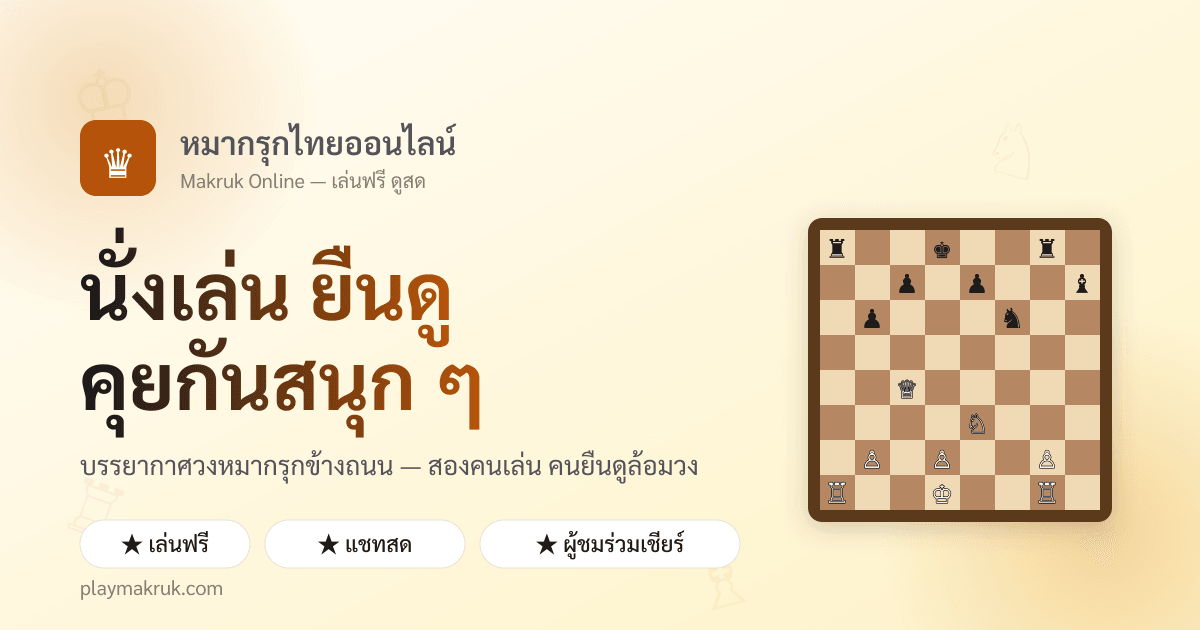
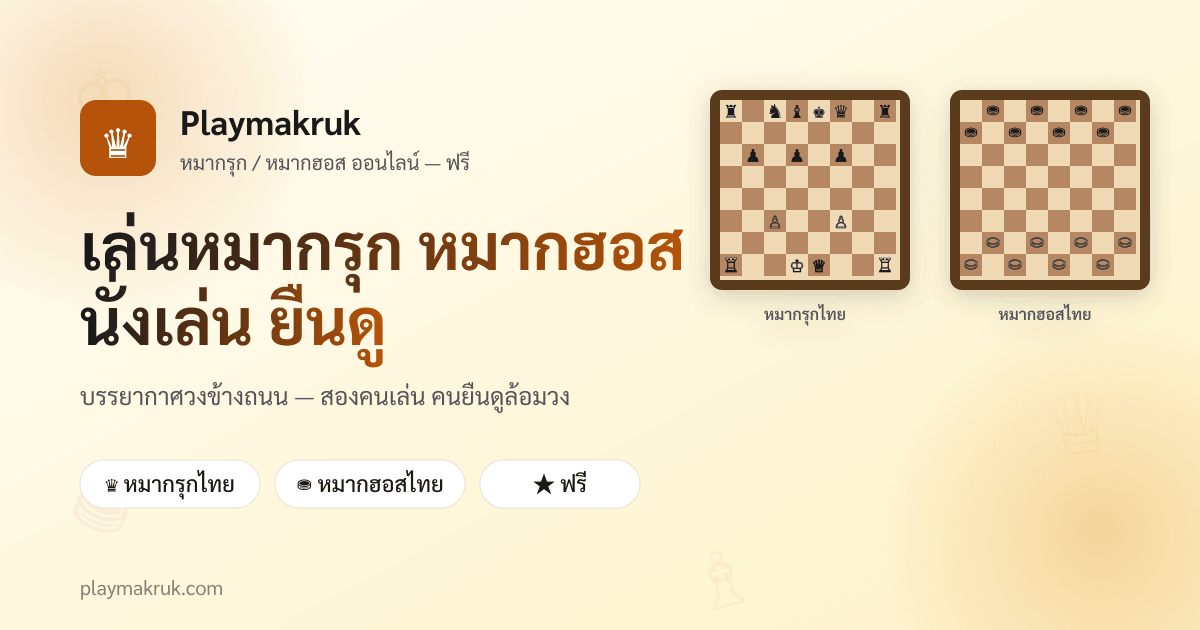
SEO: FAQ schema, Game schema, keyword-rich content, dual-game og-image, dynamic in-room rules

diff --git a/public/rules.html b/public/rules.html
@@ -38,6 +38,59 @@
   "author": { "@type": "Organization", "name": "Playmakruk" }
 }
 </script>
+<script type="application/ld+json">
+{
+  "@context": "https://schema.org",
+  "@type": "FAQPage",
+  "mainEntity": [
+    {
+      "@type": "Question",
+      "name": "หมากรุกไทยเล่นยังไง?",
+      "acceptedAnswer": { "@type": "Answer", "text": "หมากรุกไทยเล่นบนกระดาน 8x8 ฝ่ายละ 16 ตัว (ขุน 1, เม็ด 1, โคน 2, ม้า 2, เรือ 2, เบี้ย 8) เบี้ยเริ่มที่แถว 3 ฝ่ายขาวเดินก่อน เป้าหมายคือรุกจนขุนของฝ่ายตรงข้าม" }
+    },
+    {
+      "@type": "Question",
+      "name": "หมากฮอสไทยเล่นยังไง?",
+      "acceptedAnswer": { "@type": "Answer", "text": "หมากฮอสไทยเล่นบนกระดาน 8x8 ฝ่ายละ 8 ตัว วาง 2 แถวบนช่องสีเข้มสลับฟันปลา หมากเดินทแยง 1 ช่อง กินด้วยการกระโดดข้าม ถ้ามีโอกาสกินต้องกิน กินติดได้ในตาเดียว ผู้ชนะคือฝ่ายที่กินหมากตรงข้ามหมดหรือทำให้อีกฝ่ายเดินไม่ได้" }
+    },
+    {
+      "@type": "Question",
+      "name": "หมากรุกไทยกับหมากรุกสากลต่างกันยังไง?",
+      "acceptedAnswer": { "@type": "Answer", "text": "เบี้ยหมากรุกไทยเริ่มแถว 3 ไม่ใช่แถว 2, เม็ด (Queen) เดินทแยง 1 ช่อง, โคน (Bishop) เดินทแยง 1 + ตรงหน้า 1, ไม่มี castling, ไม่มี en passant, เบี้ยเลื่อนเป็นเม็ดเท่านั้น และมีกฎนับศักดิ์" }
+    },
+    {
+      "@type": "Question",
+      "name": "หมากฮอสไทยมีกี่ตัว?",
+      "acceptedAnswer": { "@type": "Answer", "text": "ฝ่ายละ 8 ตัว รวม 2 ฝ่ายเป็น 16 ตัว วางบนช่องสีเข้ม 2 แถวแรกของแต่ละฝั่ง แต่ละแถวมี 4 ตัวสลับฟันปลา" }
+    },
+    {
+      "@type": "Question",
+      "name": "หงายในหมากฮอสคืออะไร?",
+      "acceptedAnswer": { "@type": "Answer", "text": "เมื่อหมากธรรมดาเดินถึงแถวสุดท้ายของฝ่ายตรงข้าม จะหงายเป็นขุน (King) ขุนเดินทแยงระยะใดก็ได้ทั้ง 4 ทิศ และกินด้วยการกระโดดข้ามหมากฝ่ายตรงข้ามไกลแค่ไหนก็ได้" }
+    },
+    {
+      "@type": "Question",
+      "name": "บังคับกินในหมากฮอสไทยคืออะไร?",
+      "acceptedAnswer": { "@type": "Answer", "text": "ถ้าตาคุณมีโอกาสกินหมากของฝ่ายตรงข้าม คุณต้องกิน ห้ามเดินตาธรรมดา หากมีหลายตัวเลือกที่กินได้ เลือกตัวใดก็ได้ และถ้ากินแล้วยังกินต่อได้อีกในตำแหน่งใหม่ ต้องกินต่อในตาเดียวกัน เรียกว่ากินติด" }
+    },
+    {
+      "@type": "Question",
+      "name": "เล่นหมากรุกหมากฮอสออนไลน์ฟรีได้ที่ไหน?",
+      "acceptedAnswer": { "@type": "Answer", "text": "เล่นได้ที่ playmakruk.com ไม่ต้องสมัคร เปิดวงเล่น 2 คน คนอื่นเข้ามายืนดูพร้อมพูดคุยกันได้ในแชทสด มีให้เลือกทั้งหมากรุกไทยและหมากฮอสไทย ฟรีทั้งหมด" }
+    },
+    {
+      "@type": "Question",
+      "name": "ขุนเดินยังไงในหมากรุกไทย?",
+      "acceptedAnswer": { "@type": "Answer", "text": "ขุน (King) ในหมากรุกไทยเดิน 1 ช่องไปได้ทุกทิศทาง เหมือนคิงในหมากรุกสากล ขุนเป็นตัวที่ห้ามถูกรุกจน" }
+    },
+    {
+      "@type": "Question",
+      "name": "กฎนับศักดิ์ในหมากรุกไทยคืออะไร?",
+      "acceptedAnswer": { "@type": "Answer", "text": "กฎพิเศษเพื่อจบเกมที่ลากยาว ฝ่ายเสียเปรียบสามารถเรียกนับเพื่อบังคับให้จบเกม มี 2 รูปแบบ: นับกระดาน (เมื่อไม่มีเบี้ยเหลือ นับสูงสุด 64 ตา) และนับศักดิ์ (เมื่อฝ่ายเสียเปรียบเหลือเฉพาะขุน จำนวนตานับขึ้นกับหมากที่เหลือของฝ่ายได้เปรียบ)" }
+    }
+  ]
+}
+</script>
 </head>
 <body>
   <header>
@@ -56,6 +109,7 @@
     <nav class="rules-nav">
       <a href="#chess">♛ หมากรุกไทย</a>
       <a href="#checkers">⛂ หมากฮอสไทย</a>
+      <a href="#faq">❓ คำถามที่พบบ่อย</a>
     </nav>
 
     <article class="rules-content" id="chess">
@@ -241,6 +295,56 @@
       <div class="callout">
         <strong>เกร็ดน่ารู้:</strong> หมากฮอสเป็นเกมที่คอมพิวเตอร์ "แก้ได้" แล้ว — ในปี 2007 นักวิจัยจาก University of Alberta พิสูจน์ว่าเกม English Checkers ถ้าเล่นถูกที่สุดทั้งสองฝ่าย จะจบด้วยการเสมอเสมอ แต่หมากฮอสไทยยังไม่เคยถูก "แก้" อย่างเป็นทางการ — ยังเป็นเกมที่ลึกพอให้มนุษย์ท้าทายตัวเอง
       </div>
+    </article>
+
+    <article class="rules-content" id="faq" style="margin-top: 32px;">
+      <h1>คำถามที่พบบ่อย (FAQ)</h1>
+      <p class="subtitle">คำถามยอดฮิตเกี่ยวกับหมากรุกไทยและหมากฮอสไทย</p>
+
+      <details class="faq-item">
+        <summary>หมากรุกไทยเล่นยังไง?</summary>
+        <p>หมากรุกไทยเล่นบนกระดาน 8×8 ฝ่ายละ 16 ตัว (ขุน 1, เม็ด 1, โคน 2, ม้า 2, เรือ 2, เบี้ย 8) เบี้ยเริ่มที่แถว 3 (ไม่ใช่แถว 2 เหมือนหมากรุกสากล) ฝ่ายขาวเดินก่อน เป้าหมายคือ "รุกจน" ขุนของฝ่ายตรงข้าม — ทำให้ขุนถูกรุกและเดินหลบไม่ได้</p>
+      </details>
+
+      <details class="faq-item">
+        <summary>หมากฮอสไทยเล่นยังไง?</summary>
+        <p>หมากฮอสไทยเล่นบนกระดาน 8×8 ฝ่ายละ 8 ตัว วาง 2 แถวบนช่องสีเข้ม สลับฟันปลา หมากเดินทแยง 1 ช่อง กินด้วยการกระโดดข้ามหมากฝ่ายตรงข้าม — ถ้ามีโอกาสกินต้องกิน (บังคับกิน) กินติดได้ในตาเดียว เมื่อเดินถึงแถวสุดท้ายจะ "หงาย" เป็นขุนที่บินทแยงไกลได้ ผู้ชนะคือฝ่ายที่กินหมากตรงข้ามหมด หรือทำให้อีกฝ่ายเดินไม่ได้</p>
+      </details>
+
+      <details class="faq-item">
+        <summary>หมากรุกไทยกับหมากรุกสากลต่างกันยังไง?</summary>
+        <p>ที่ต่างหลักๆ: (1) เบี้ยหมากรุกไทยเริ่มที่แถว 3 ไม่ใช่แถว 2 (2) เม็ด (Queen) เดินทแยง 1 ช่องเท่านั้น ไม่ไกลเหมือนควีนสากล (3) โคน (Bishop) เดินทแยง 1 ช่อง + ตรงหน้า 1 ช่อง (4) ไม่มี castling, ไม่มี en passant (5) เบี้ยเลื่อนเป็นเม็ดเท่านั้น (6) มีกฎ "นับศักดิ์" ใช้จบเกมที่ลากยาว</p>
+      </details>
+
+      <details class="faq-item">
+        <summary>หมากฮอสไทยมีกี่ตัว?</summary>
+        <p>ฝ่ายละ <strong>8 ตัว</strong> รวม 2 ฝ่าย = 16 ตัว วางบนช่องสีเข้ม 2 แถวแรกของแต่ละฝั่ง — แต่ละแถวมี 4 ตัว สลับฟันปลา</p>
+      </details>
+
+      <details class="faq-item">
+        <summary>"หงาย" ในหมากฮอสคืออะไร?</summary>
+        <p>เมื่อหมากธรรมดาเดินถึงแถวสุดท้ายของฝ่ายตรงข้าม จะ "หงาย" เป็น <strong>ขุน (King)</strong> — ขุนเดินทแยงระยะใดก็ได้ทั้ง 4 ทิศ และกินด้วยการกระโดดข้ามหมากฝ่ายตรงข้ามไกลแค่ไหนก็ได้ (Flying king)</p>
+      </details>
+
+      <details class="faq-item">
+        <summary>"บังคับกิน" ในหมากฮอสไทยคืออะไร?</summary>
+        <p>ถ้าตาคุณมีโอกาสกินหมากของฝ่ายตรงข้าม คุณ <strong>ต้องกิน</strong> — ห้ามเดินตาธรรมดา หากมีหลายตัวเลือกที่กินได้ เลือกตัวใดก็ได้ตามใจ และถ้ากินแล้วยังกินต่อได้อีก (ในตำแหน่งใหม่) ต้องกินต่อในตาเดียวกัน — เรียกว่า "กินติด"</p>
+      </details>
+
+      <details class="faq-item">
+        <summary>เล่นหมากรุก/หมากฮอสออนไลน์ฟรีได้ที่ไหน?</summary>
+        <p>เล่นได้ที่ <strong>playmakruk.com</strong> ไม่ต้องสมัคร เปิดวงเล่น 2 คน คนอื่นเข้ามายืนดูพร้อมพูดคุยกันได้ในแชทสด มีให้เลือกทั้งหมากรุกไทยและหมากฮอสไทย — ฟรีทั้งหมด</p>
+      </details>
+
+      <details class="faq-item">
+        <summary>ขุนเดินยังไงในหมากรุกไทย?</summary>
+        <p>ขุน (King) ในหมากรุกไทยเดิน <strong>1 ช่องไปได้ทุกทิศทาง</strong> — เหมือนคิงในหมากรุกสากล ขุนเป็นตัวที่ห้ามถูก "รุกจน" ถ้าขุนถูกรุกและเดินหลบ/บัง/กินไม่ได้ → แพ้</p>
+      </details>
+
+      <details class="faq-item">
+        <summary>กฎ "นับศักดิ์" ในหมากรุกไทยคืออะไร?</summary>
+        <p>กฎพิเศษเพื่อจบเกมที่ลากยาว — ฝ่ายเสียเปรียบสามารถเรียกนับเพื่อบังคับให้จบเกม มี 2 รูปแบบ: (1) <strong>นับกระดาน</strong> เมื่อไม่มีเบี้ยเหลือบนกระดาน — นับสูงสุด 64 ตา (2) <strong>นับศักดิ์</strong> เมื่อฝ่ายเสียเปรียบเหลือเฉพาะขุน — จำนวนตานับขึ้นกับหมากที่เหลือของฝ่ายได้เปรียบ ถ้านับครบไม่ชนะ = เสมอ</p>
+      </details>
     </article>
 
     <footer>

diff --git a/public/style.css b/public/style.css
@@ -894,6 +894,87 @@ body[data-board-theme="gray"] { --sq-light: #FFFFFF; --sq-dark: #B8B8B8; --sq-se
   100% { opacity: 0; transform: translateY(-450px) scale(0.7) rotate(10deg); }
 }
 
+/* ============ SEO content section (lobby) ============ */
+.seo-intro {
+  margin-top: 32px;
+  display: grid;
+  grid-template-columns: 1fr 1fr;
+  gap: 16px;
+}
+@media (max-width: 720px) {
+  .seo-intro { grid-template-columns: 1fr; }
+}
+.seo-card {
+  background: var(--surface);
+  border: 1px solid var(--border);
+  border-radius: var(--radius-lg);
+  padding: 24px 28px;
+  box-shadow: var(--shadow-xs);
+}
+.seo-card h2 {
+  margin: 0 0 12px;
+  font-size: 20px;
+  font-weight: 700;
+  color: var(--text);
+}
+.seo-card p {
+  margin: 0 0 12px;
+  font-size: 14px;
+  line-height: 1.7;
+  color: var(--text-2);
+}
+.seo-card a {
+  color: var(--primary);
+  font-weight: 600;
+}
+.seo-card a:hover { text-decoration: underline; }
+.seo-card ul {
+  margin: 0;
+  padding-left: 0;
+  list-style: none;
+}
+.seo-card ul li {
+  margin-bottom: 8px;
+  font-size: 14px;
+  color: var(--text-2);
+  line-height: 1.6;
+}
+.seo-features { grid-column: 1 / -1; }
+
+/* ============ FAQ items (rules page) ============ */
+.faq-item {
+  background: var(--surface-2);
+  border: 1px solid var(--border);
+  border-radius: var(--radius);
+  padding: 14px 18px;
+  margin-bottom: 10px;
+}
+.faq-item summary {
+  cursor: pointer;
+  font-weight: 600;
+  color: var(--text);
+  list-style: none;
+  display: flex;
+  align-items: center;
+  gap: 10px;
+  font-size: 15px;
+}
+.faq-item summary::-webkit-details-marker { display: none; }
+.faq-item summary::before {
+  content: '▸';
+  transition: transform 0.2s;
+  color: var(--primary);
+  flex-shrink: 0;
+}
+.faq-item[open] summary::before { transform: rotate(90deg); }
+.faq-item p {
+  margin: 12px 0 0;
+  padding-left: 24px;
+  color: var(--text-2);
+  line-height: 1.7;
+  font-size: 14px;
+}
+
 /* ============ Footer ============ */
 footer {
   margin-top: 48px;

diff --git a/public/index.html b/public/index.html
@@ -41,6 +41,57 @@
   "inLanguage": "th-TH"
 }
 </script>
+<script type="application/ld+json">
+{
+  "@context": "https://schema.org",
+  "@type": "WebApplication",
+  "name": "Playmakruk",
+  "url": "https://playmakruk.com/",
+  "applicationCategory": "GameApplication",
+  "operatingSystem": "Web",
+  "browserRequirements": "Requires JavaScript and modern browser",
+  "offers": { "@type": "Offer", "price": "0", "priceCurrency": "THB" },
+  "description": "เว็บเล่นหมากรุกไทยและหมากฮอสไทยออนไลน์ฟรี ไม่ต้องสมัคร เปิดวงเล่น 2 คน คนอื่นเข้าดูพร้อมแชทได้",
+  "inLanguage": "th-TH",
+  "featureList": [
+    "เล่นหมากรุกไทยออนไลน์",
+    "เล่นหมากฮอสไทยออนไลน์",
+    "ผู้ชมเข้าดูได้ไม่จำกัด",
+    "แชทสดระหว่างผู้เล่นและผู้ชม",
+    "Reaction emoji ลอย",
+    "ตั้งเวลาแบบ Fischer increment",
+    "ห้องส่วนตัว ป้องกันด้วยรหัส",
+    "เลือกธีมกระดาน 5 แบบ",
+    "ฟรี ไม่ต้องสมัคร"
+  ]
+}
+</script>
+<script type="application/ld+json">
+{
+  "@context": "https://schema.org",
+  "@type": "ItemList",
+  "itemListElement": [
+    {
+      "@type": "Game",
+      "position": 1,
+      "name": "หมากรุกไทย",
+      "alternateName": "Makruk",
+      "description": "หมากรุกพื้นบ้านของไทย กระดาน 8x8 ฝ่ายละ 16 ตัว เบี้ยเริ่มแถว 3 มีกฎนับศักดิ์ เม็ดเดินทแยง 1 ช่อง โคนเดินทแยง + ตรงหน้า 1 ช่อง",
+      "url": "https://playmakruk.com/rules.html#chess",
+      "numberOfPlayers": "2"
+    },
+    {
+      "@type": "Game",
+      "position": 2,
+      "name": "หมากฮอสไทย",
+      "alternateName": "Makhos",
+      "description": "หมากฮอสฉบับไทย กระดาน 8x8 ฝ่ายละ 8 ตัว 2 แถวบนช่องสีเข้ม บังคับกิน กินติดได้ หงายเป็นขุนบินไกล",
+      "url": "https://playmakruk.com/rules.html#checkers",
+      "numberOfPlayers": "2"
+    }
+  ]
+}
+</script>
 </head>
 <body class="lobby-page">
   <header>
@@ -164,6 +215,35 @@
         </div>
       </aside>
     </div>
+
+    <section class="seo-intro">
+      <div class="seo-card">
+        <h2>♛ เล่นหมากรุกไทยออนไลน์</h2>
+        <p>หมากรุกไทย (Makruk) คือเกมหมากกระดานพื้นบ้านของไทย สืบทอดมาแต่โบราณ มีบรรพบุรุษร่วมกับหมากรุกสากลคือเกมจตุรงค์ของอินเดีย เล่นบนกระดาน 8×8 ฝ่ายละ 16 ตัว — <strong>ขุน</strong>, <strong>เม็ด</strong>, <strong>โคน</strong>, <strong>ม้า</strong>, <strong>เรือ</strong>, <strong>เบี้ย</strong>. เป้าหมายคือ <strong>"รุกจน"</strong> ขุนของฝ่ายตรงข้าม</p>
+        <p>เด่นกว่าหมากรุกสากลตรงที่เม็ดเดินทแยง 1 ช่อง โคนเดินทแยง 4 ทิศ + ตรงหน้า 1 ช่อง เบี้ยเริ่มแถว 3 ไม่มี castling ไม่มี en passant และมี<strong>กฎนับศักดิ์</strong>เพื่อจบเกมที่ลากยาว</p>
+        <p><a href="/rules.html#chess">อ่านกฎหมากรุกไทยฉบับเต็ม →</a></p>
+      </div>
+
+      <div class="seo-card">
+        <h2>⛂ เล่นหมากฮอสไทยออนไลน์</h2>
+        <p>หมากฮอสไทย (Makhos / Thai Draughts) เป็นเกมข้างถนนยอดฮิตของไทย เห็นเล่นทุกตลาด ทุกร้านกาแฟ — เล่นง่าย กฎไม่กี่ข้อ แต่กลยุทธ์ลึก. ฝ่ายละ <strong>8 ตัว</strong> วาง 2 แถวบนช่องสีเข้มแบบสลับฟันปลา</p>
+        <p>หมากเดินทแยง 1 ช่อง กินด้วยการกระโดดข้าม มี<strong>กฎบังคับกิน</strong>และ<strong>กินติด</strong> เมื่อเดินถึงแถวสุดท้ายจะ<strong>หงาย</strong>เป็นขุนที่บินทแยงไกลได้ ฝ่ายที่กินหมากตรงข้ามหมดหรือทำให้อีกฝ่ายเดินไม่ได้คือผู้ชนะ</p>
+        <p><a href="/rules.html#checkers">อ่านกฎหมากฮอสไทยฉบับเต็ม →</a></p>
+      </div>
+
+      <div class="seo-card seo-features">
+        <h2>ทำไมต้อง Playmakruk?</h2>
+        <ul>
+          <li>✓ <strong>ฟรี 100%</strong> ไม่ต้องสมัคร ไม่มีค่าใช้จ่าย</li>
+          <li>✓ <strong>เล่นได้ทุกอุปกรณ์</strong> — มือถือ แท็บเล็ต คอม</li>
+          <li>✓ <strong>มีผู้ชมยืนดู</strong> — เหมือนวงหมากรุกข้างถนน คนรอบข้างคุยเชียร์ได้</li>
+          <li>✓ <strong>ตั้งเวลาแบบมาตรฐานแข่งขัน</strong> — Fischer increment เลือกได้</li>
+          <li>✓ <strong>ห้องส่วนตัว</strong> — ตั้งรหัสห้อง เล่นกับเพื่อนเฉพาะ</li>
+          <li>✓ <strong>5 ธีมกระดาน</strong> — ไม้ เขียว น้ำเงิน ม่วง เทา</li>
+          <li>✓ <strong>ตรวจกฎอัตโนมัติ</strong> — รุก รุกจน นับศักดิ์ บังคับกิน กินติด หงาย ครบทุกอย่าง</li>
+        </ul>
+      </div>
+    </section>
 
     <footer>
       <div class="footer-row">

diff --git a/public/room.html b/public/room.html
@@ -107,13 +107,21 @@
 
         <details class="rules">
           <summary>📖 กฎการเดินหมาก</summary>
-          <ul>
+          <ul id="chessRulesList">
             <li><b>♔ ขุน</b> — เดิน 1 ช่องทุกทิศทาง</li>
             <li><b>♕ เม็ด</b> — เดิน 1 ช่องในแนวทแยง</li>
             <li><b>♗ โคน</b> — เดิน 1 ช่องในแนวทแยง หรือ 1 ช่องตรงข้างหน้า</li>
             <li><b>♘ ม้า</b> — เดินรูปตัว L</li>
             <li><b>♖ เรือ</b> — เดินตรงในแนวนอน/แนวตั้ง ระยะใดก็ได้</li>
             <li><b>♙ เบี้ย</b> — เดินตรง 1 ช่อง กินทแยง 1 ช่อง — ถึงแถวที่ 6 (ของฝ่ายตน) เลื่อนเป็นเม็ด</li>
+          </ul>
+          <ul id="checkersRulesList" hidden>
+            <li><b>⛀ หมากธรรมดา</b> — เดินทแยงไปข้างหน้า 1 ช่อง</li>
+            <li><b>⛁ หมากหงาย (ขุน)</b> — เดินทแยงระยะใดก็ได้ทั้ง 4 ทิศ (Flying king)</li>
+            <li><b>กิน</b> — กระโดดข้ามหมากฝ่ายตรงข้าม กินได้ทั้ง 4 ทิศทแยง</li>
+            <li><b>บังคับกิน</b> — ถ้ามีโอกาสกินต้องกิน ห้ามเดินตาธรรมดา</li>
+            <li><b>กินติด</b> — หลังกินถ้ากินต่อได้อีก ต้องกินต่อในตาเดียวกัน</li>
+            <li><b>หงาย</b> — หมากธรรมดาถึงแถวสุดท้ายของฝ่ายตรงข้าม จะหงายเป็นขุน</li>
           </ul>
           <p style="margin-top:12px"><a href="/rules.html">อ่านประวัติและกติกาเต็ม →</a></p>
         </details>

diff --git a/public/room.js b/public/room.js
@@ -59,6 +59,12 @@ socket.on('room_state', (state) => {
   gameType = state.gameType || 'chess';
   const labelEl = document.getElementById('roomGameTypeLabel');
   if (labelEl) labelEl.textContent = gameType === 'checkers' ? 'หมากฮอสไทย' : 'หมากรุกไทย';
+  const chessRules = document.getElementById('chessRulesList');
+  const checkersRules = document.getElementById('checkersRulesList');
+  if (chessRules && checkersRules) {
+    chessRules.hidden = gameType === 'checkers';
+    checkersRules.hidden = gameType !== 'checkers';
+  }
   board = state.board;
   currentPlayer = state.currentPlayer;
   status = state.status;